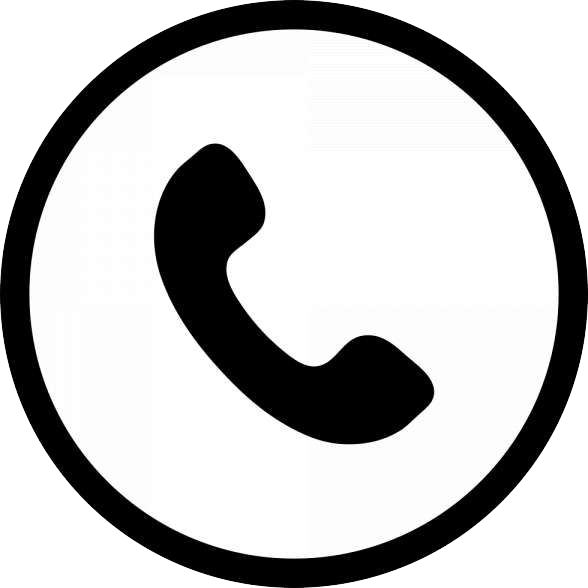
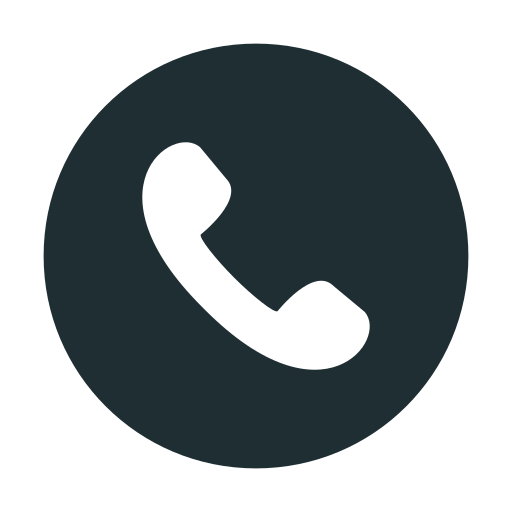
content write almost finished

diff --git a/index.html b/index.html
@@ -146,19 +146,23 @@
 				<div class="three-grids-columns">
 					<span class="fa fa-laptop"></span>
 					<h4>Developer</h4>
-					<p>Vestibulum ante ipsum primis in faucibus orci luctus et ultrices posuere cubilia Curae; Nulla mollis dapibus nunc</p>
+					<p>I’m a Web Developer located in Kerala. I have a serious passion for UI effects,
+             animations and creating intuitive, dynamic user experiences.
+          </p>
 					
 				</div>
 				<div class="three-grids-columns">
 					<span class="fa fa-fighter-jet"></span>
 					<h4>Engineer</h4>
-					<p>Vestibulum ante ipsum primis in faucibus orci luctus et ultrices posuere cubilia Curae; Nulla mollis dapibus nunc</p>
+					<p>I'm Graduated In Aeronautical Engineering. As a student, I worked really very hard in my studies
+            and I learn things theoretically but I'm waiting for an opportunity to implement them in practical way.
+          </p>
 					
 				</div>
 				<div class="three-grids-columns">
 					<span class="fa fa-desktop"></span>
 					<h4>Cyber-Security</h4>
-					<p>Vestibulum ante ipsum primis in faucibus orci luctus et ultrices posuere cubilia Curae; Nulla mollis dapibus nunc</p>
+					<p>I'm a Self-taught Ethical Hacker and Cyber-Security Enthusiast. I enjoy Learning things that live on the internet.</p>
 					
 				</div>
 			</div>
@@ -377,17 +381,23 @@
 					<div class="experience-top">
             <h5>07/22 - Now</h5>
 						<h4>Own Project</h4>
-						<p class="my-3 text-white">Sed ut perspiciatis unde omnis iste natus error sit voluptatem accusantium doloremque laudantium, totam rem aperiam, eaque ipsa quae ab illo inventore veritatis et quasi architecto beatae.</p>
+						<p class="my-3 text-white">I am working on my own static website project. Actually, it's a two-day job, 
+              but I researched it myself and I learned new features to improve the performance of this project.
+              <br> <br>
+            </p>
             </div>
             <div class="experience-top">
               <h5>04/22 - 1 month</h5>
               <h4>Freelance work</h4>
-              <p class="my-3 text-white">Sed ut perspiciatis unde omnis iste natus error sit voluptatem accusantium doloremque laudantium, totam rem aperiam, eaque ipsa quae ab illo inventore veritatis et quasi architecto beatae.</p>
+              <p class="my-3 text-white">I collaborated on my friend's project. and I helped to build the front-end of the e-commerce website.
+                <br> <br></p>
               </div>
               <div class="experience-top">
                 <h5>03/22 - 1 month</h5>
                 <h4>Acuwins Pvt Ltd</h4>
-                <p class="my-3 text-white">Sed ut perspiciatis unde omnis iste natus error sit voluptatem accusantium doloremque laudantium, totam rem aperiam, eaque ipsa quae ab illo inventore veritatis et quasi architecto beatae.</p>
+                <p class="my-3 text-white">It's a one-month on-the-job training program. I learned basic knowledge about the programming languages PHP, Python, etc.,
+                   from there, and I successfully completed the program.
+                </p>
                 </div>
 					</div>
 					<div class="column2">
@@ -395,17 +405,23 @@
             <div class="experience-top">
               <h5>2022</h5>
               <h4>Jr.Software Developer, DDU-GKY Program</h4>
-              <p class="my-3 text-white">Sed ut perspiciatis unde omnis iste natus error sit voluptatem accusantium doloremque laudantium, totam rem aperiam, eaque ipsa quae ab illo inventore veritatis et quasi architecto beatae.</p>
+              <p class="my-3 text-white">It's a four-month central government program, including one month of OJT. and I successfully completed the program. 
+                I also learned the programming languages C, C++, C#, and Java. After completion of the program, I get a junior software developer certificate..
+              </p>
               </div>
               <div class="experience-top">
                 <h5>2020</h5>
                 <h4>Bachelor of Aeronautical Science,<br> Alagappa University, karaikudi</h4>
-                <p class="my-3 text-white">Sed ut perspiciatis unde omnis iste natus error sit voluptatem accusantium doloremque laudantium, totam rem aperiam, eaque ipsa quae ab illo inventore veritatis et quasi architecto beatae.</p>
+                <p class="my-3 text-white">I successfully completed my graduation in Bachelor of Aeronautical Science 
+                  from Nehru College of Aeronautics and Applied Science, Coimbatore.
+              
+                </p>
                 </div>
                 <div class="experience-top">
                   <h5>2015</h5>
                   <h4>Higher Secondary, Kerala State Board</h4>
-                  <p class="my-3 text-white">Sed ut perspiciatis unde omnis iste natus error sit voluptatem accusantium doloremque laudantium, totam rem aperiam, eaque ipsa quae ab illo inventore veritatis et quasi architecto beatae.</p>
+                  <p class="my-3 text-white">I successfully completed my Higher Secondary education in Bio-Science (Physics,Chemistry,Mathematics,Biology), 
+                    from S.N.Trust.H.S. Kollam.</p>
                   </div>
 					</div>
 			</div>

diff --git a/about.html b/about.html
@@ -9,7 +9,7 @@
     <title> About Me</title>
     <!--title icon-->
     <link rel = "icon" href = 
-    "assets/images/Abme.jpg" 
+    "assets/images/profile-user.png" 
             type = "image/x-icon">
     <!--//title icon-->
     <!-- web fonts -->
@@ -102,10 +102,8 @@
 <section id="services-1" class="bg-light py-5">
   <div class="container py-lg-3">
     <div class="heading text-center mx-auto">
-      <h3 class="head">Welcome To My Site</h3>
-      <p class="my-3 head"> Vestibulum ante ipsum primis in faucibus orci luctus et ultrices posuere cubilia Curae;
-        Nulla mollis dapibus nunc, ut rhoncus
-        turpis sodales quis. Integer sit amet mattis quam.Vestibulum ante ipsum primis in faucibus orci luctus et ultrices posuere cubilia Curae; Nulla mollis dapibus nunc</p> 
+      <h3 class="head"> My Motivation</h3>
+      <p class="my-3 head"> "Push Your Self, Because No One Else Is Going To Do It For You"</p> 
       </div>
   </div>
 </section>
@@ -115,9 +113,7 @@
   <div class="container py-lg-3">
     <div class="heading text-center mx-auto">
       <h3 class="head">Languages & Tools</h3>
-      <p class="my-3 head"> Vestibulum ante ipsum primis in faucibus orci luctus et ultrices posuere cubilia Curae;
-        Nulla mollis dapibus nunc, ut rhoncus
-        turpis sodales quis. Integer sit amet mattis quam.Vestibulum ante ipsum primis in faucibus orci luctus et ultrices posuere cubilia Curae; Nulla mollis dapibus nunc</p> 
+      <p class="my-3 head"> Developers need different languages and tools to communicate with computers. So I mentioned some languages and tools that I mostly use and communicate with my computers.</p> 
       </div>
   </div>
 </section>

diff --git a/contact.html b/contact.html
@@ -8,7 +8,7 @@
     <title>Contact</title>
     <!--title icon-->
     <link rel = "icon" href = 
-    "assets/images/phone.jpg" 
+    "assets/images/phone.png" 
             type = "image/x-icon">
     <!--//title icon-->
     <!-- web fonts -->

diff --git a/assets/css/style-starter.css b/assets/css/style-starter.css
@@ -9765,7 +9765,7 @@ a.read:hover {
 
 .heading p {
   color: var(--text-color);
-  font-size: 16px;
+  font-size: 20px;
   line-height: 24px; }
 
 h4.sub-title {
